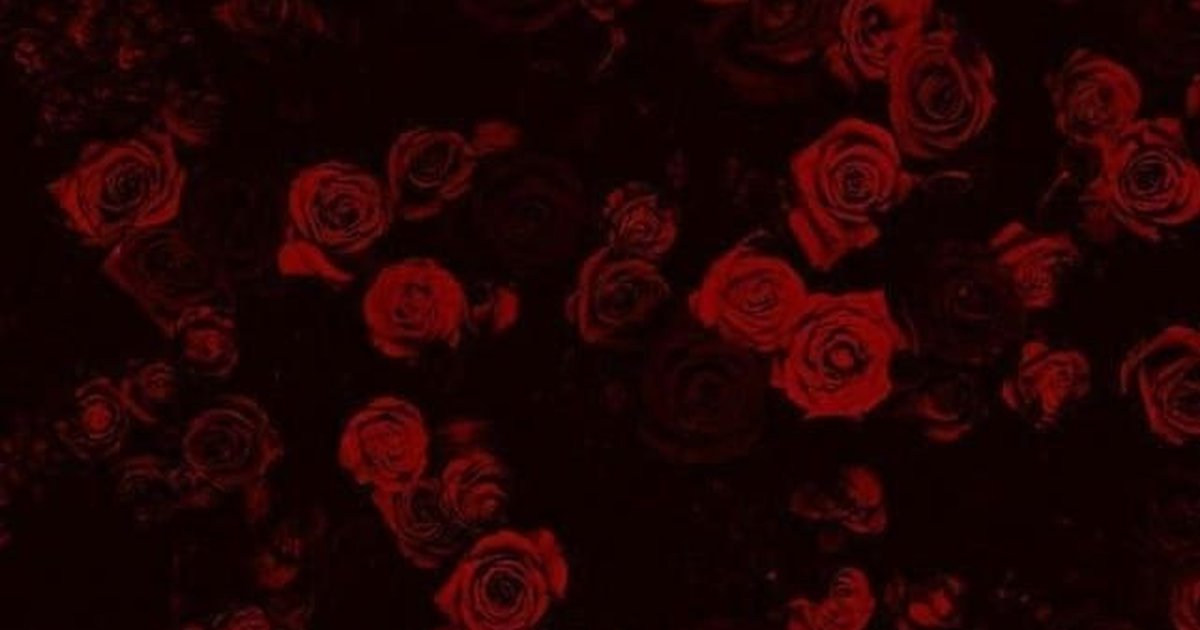
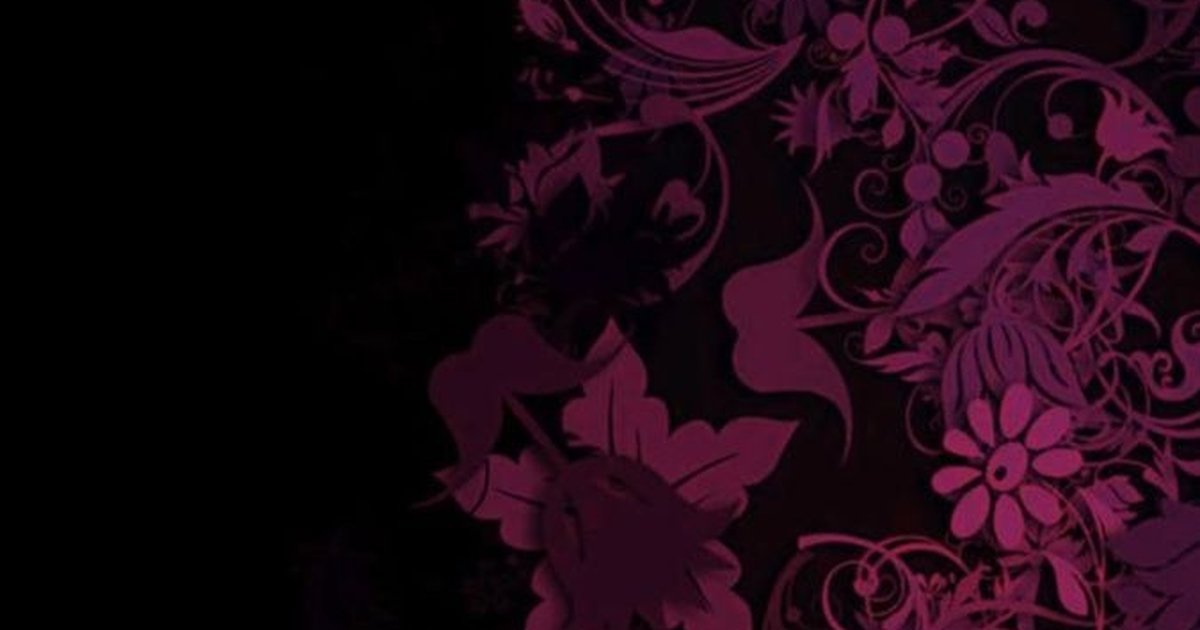
feat: fondos del cliente (damasco y marmoles morado/vino/oro) en lugar de las rosas rojas

diff --git a/index.html b/index.html
@@ -39,7 +39,7 @@ body{background:var(--bg);color:var(--text);font-family:'Cormorant Garamond',ser
 
 /* ── ENVELOPE ── */
 #envelope-screen{position:fixed;inset:0;z-index:9000;background:#0B0510;overflow:hidden;cursor:pointer;opacity:1;display:flex;align-items:center;justify-content:center}
-.env-bg{position:absolute;inset:0;background:url('portada.jpg') center/cover no-repeat;opacity:.55;filter:saturate(.85)}
+.env-bg{position:absolute;inset:0;background:url('portada.jpg') center/cover no-repeat;opacity:.62;filter:saturate(.9)}
 .env-vignette{position:absolute;inset:0;background:radial-gradient(ellipse 62% 52% at 50% 46%,rgba(59,18,82,.35) 0%,rgba(11,5,16,.82) 68%,#08040C 100%)}
 .env-stage{position:relative;z-index:5;width:min(78vw,320px);aspect-ratio:1.48/1;perspective:1100px}
 .env-card{position:absolute;inset:0;transform-style:preserve-3d}
@@ -340,7 +340,7 @@ body{background:var(--bg);color:var(--text);font-family:'Cormorant Garamond',ser
 /* ── LOADER ── */
 #loader{display:none}
 
-.sec-bg{position:absolute;inset:0;background-size:cover;background-position:center;background-repeat:no-repeat;pointer-events:none;z-index:-1;mix-blend-mode:screen}
+.sec-bg{position:absolute;inset:0;background-size:cover;background-position:center;background-repeat:no-repeat;pointer-events:none;z-index:-1}
 
 /* ── INVITACIÓN VERSE ── */
 .invite-verse{font-family:'Cormorant Garamond',serif;font-style:italic;font-weight:600;font-size:clamp(17px,4.6vw,19px);line-height:1.85;color:var(--text);text-align:center;opacity:1;max-width:295px;margin:22px auto 0;padding:18px 6px;border-top:1px solid var(--border-light);border-bottom:1px solid var(--border-light);position:relative}
@@ -515,7 +515,7 @@ body{background:var(--bg);color:var(--text);font-family:'Cormorant Garamond',ser
 
   <!-- INVITACIÓN -->
   <section class="sec rv" style="text-align:center;overflow:hidden">
-    <div class="sec-bg" style="background-image:url('fondo-gracia.jpg');opacity:.42"></div>
+    <div class="sec-bg" style="background-image:url('fondo-gracia.jpg');opacity:.30"></div>
     <span class="eyebrow stagger-child">Con la gracia de Dios</span>
     <div class="orn stagger-child"><div class="orn-line"></div><div class="orn-diamond-sm"></div><div class="orn-diamond"></div><div class="orn-diamond-sm"></div><div class="orn-line"></div></div>
     <h1 class="heading stagger-child">Valentina Govea</h1>
@@ -530,7 +530,9 @@ body{background:var(--bg);color:var(--text);font-family:'Cormorant Garamond',ser
 
   <!-- LA FESTEJADA · RETRATO -->
   <style>
-  .portrait-section{text-align:center;padding:clamp(60px,9vh,92px) 26px;position:relative;overflow:hidden;background:linear-gradient(165deg,#130A18 0%,#25102F 55%,#1C0E26 100%)}
+  .portrait-section{text-align:center;padding:clamp(60px,9vh,92px) 26px;position:relative;overflow:hidden;background:#130A18}
+  .portrait-section::after{content:'';position:absolute;inset:0;background:url('textura-4.jpg') center/cover no-repeat;opacity:.26;pointer-events:none;z-index:0}
+  .portrait-section > *{position:relative;z-index:1}
   .portrait-section::before{content:'';position:absolute;inset:0;background:radial-gradient(ellipse 72% 52% at 50% 44%,rgba(116,167,255,.22) 0%,rgba(116,167,255,0) 70%);pointer-events:none}
   .portrait-tiara{display:block;margin:0 auto 12px;width:64px;height:auto;filter:drop-shadow(0 2px 6px rgba(217,178,76,.28))}
   .portrait-frame{position:relative;display:inline-block;margin:8px auto 30px;width:232px;height:300px}
@@ -624,7 +626,7 @@ body{background:var(--bg);color:var(--text);font-family:'Cormorant Garamond',ser
 
   
   <section class="sec rv" style="text-align:center;overflow:hidden">
-    <div class="sec-bg" style="background-image:url('rosas-marco.jpg');opacity:.55"></div>
+    <div class="sec-bg" style="background-image:url('textura-1.jpg');opacity:.32"></div>
     <span class="eyebrow">Con la bendición de</span>
     <h2 class="heading-sm">Mis Padres</h2>
     <div class="fam-rings rv">
@@ -693,7 +695,7 @@ body{background:var(--bg);color:var(--text);font-family:'Cormorant Garamond',ser
 
   
   <section class="sec rv" style="text-align:center;overflow:hidden">
-    <div class="sec-bg" style="background-image:url('rosas-marco.jpg');opacity:.55"></div>
+    <div class="sec-bg" style="background-image:url('textura-2.jpg');opacity:.30"></div>
     <span class="eyebrow stagger-child">El Programa del Día</span>
     <h2 class="heading-sm stagger-child">Itinerario</h2>
     <div class="orn stagger-child" style="margin-top:16px"><div class="orn-line"></div><div class="orn-diamond-sm"></div><div class="orn-diamond"></div><div class="orn-diamond-sm"></div><div class="orn-line"></div></div>
@@ -704,7 +706,8 @@ body{background:var(--bg);color:var(--text);font-family:'Cormorant Garamond',ser
   </section>
 
   <!-- DRESS CODE -->
-  <section class="sec rv" style="text-align:center;background:var(--surface)">
+  <section class="sec rv" style="text-align:center;background:var(--surface);overflow:hidden">
+    <div class="sec-bg" style="background-image:url('textura-3.jpg');opacity:.26"></div>
     <span class="eyebrow">Código de Vestimenta</span>
     <h2 class="heading-sm">Formal Elegante</h2>
     <div class="orn" style="margin-top:16px"><div class="orn-line"></div><div class="orn-diamond-sm"></div><div class="orn-diamond"></div><div class="orn-diamond-sm"></div><div class="orn-line"></div></div>
